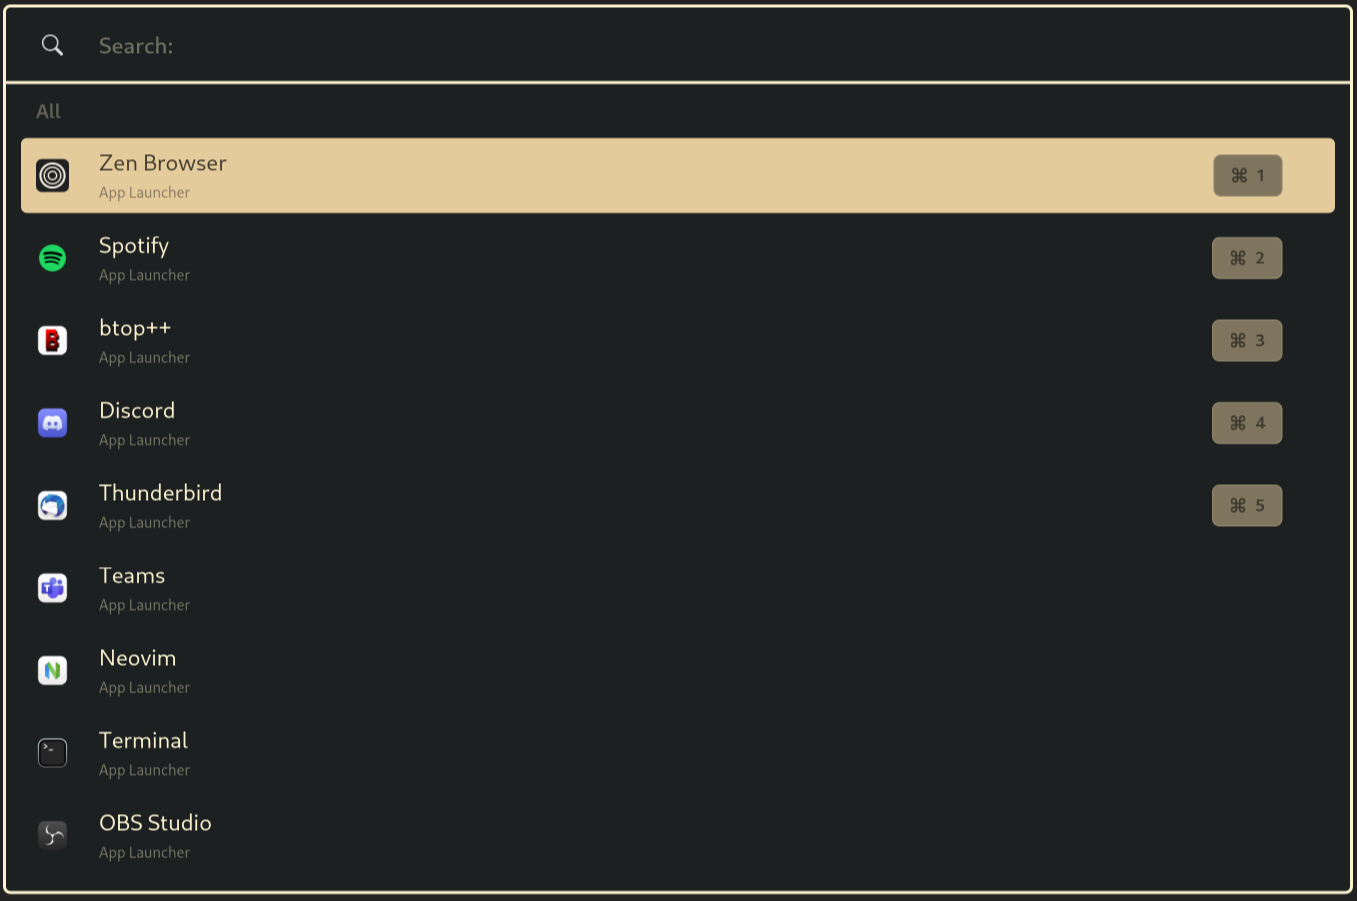
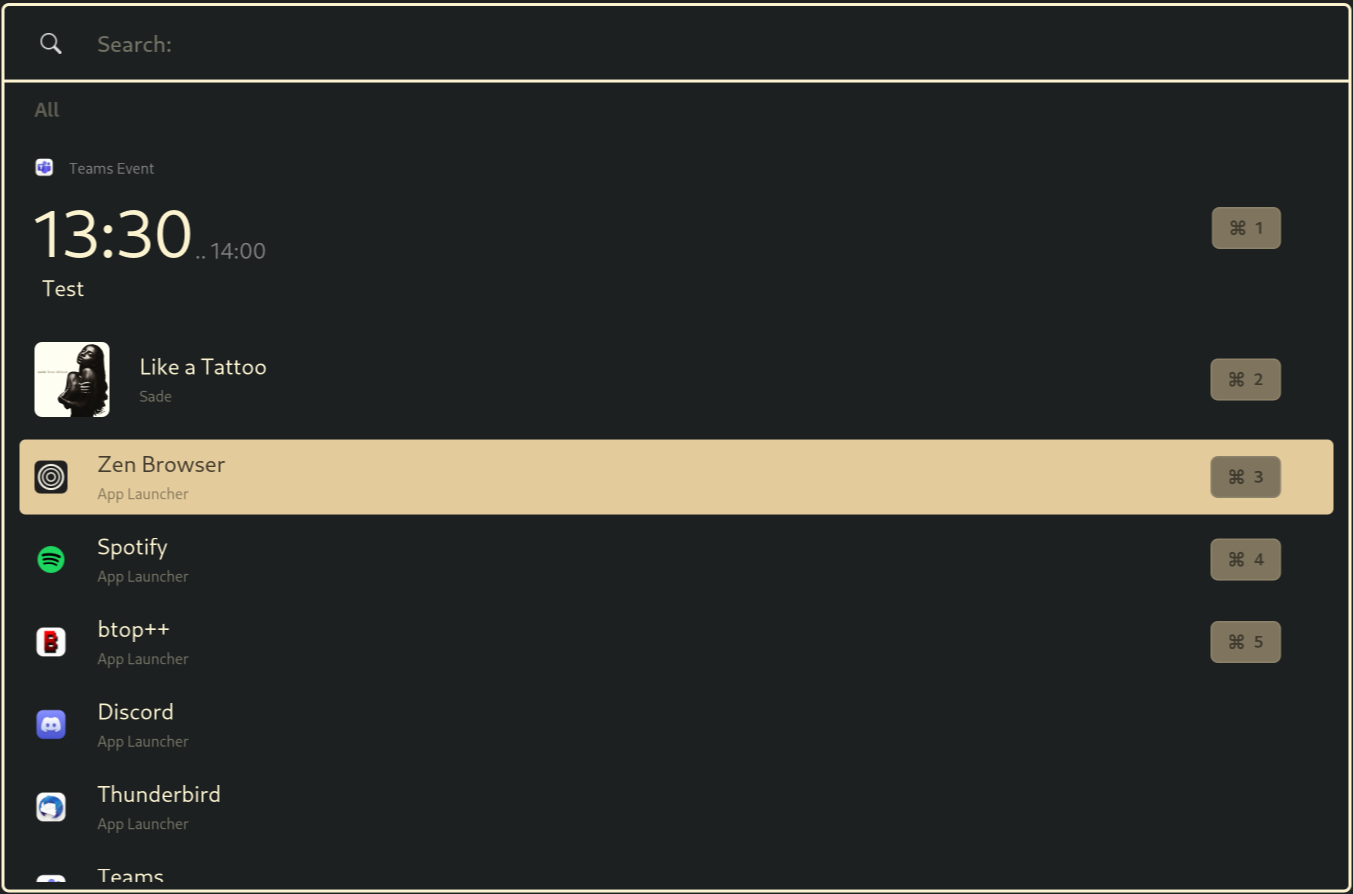
themes: improved gruvbox theme and its image

Changed region(s): [[0.0, 0.0, 1.0, 1.0], [0.8692, 0.6946, 0.9623, 0.755]]

diff --git a/themes/gruvbox2.css b/themes/gruvbox2.css
@@ -83,20 +83,6 @@ image.reactive {
 }
 
 /*EVENT TILE*/
-.tile.event-tile {
-    padding: 5px 10px;
-}
-.tile.event-tile #title-label {
-    padding: 2px 0px 7px 5px;
-    text-transform: capitalize;
-}
-.tile.event-tile #time-label{
-    font-size: 3rem;
-}
-#end-time-label {
-    color: gray;
-}
-
 .tile.event-tile:selected #time-label,
 .tile.event-tile:selected #title-label{
     color: hsla(var(--text-active), 0.6);

diff --git a/themes/gruvbox.css b/themes/gruvbox.css
@@ -108,6 +108,11 @@ image.reactive {
     min-height: 20px;
 }
 
+/*EVENT TILE*/
+.tile.event-tile:selected #time-label,
+.tile.event-tile:selected #title-label{
+    color: hsla(var(--text-active), 0.6);
+} 
 
 /* NEXT PAGE */
 .next_tile {
